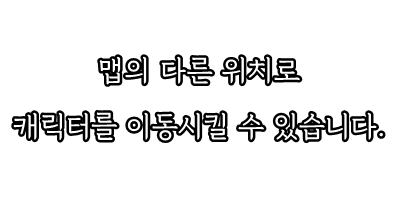
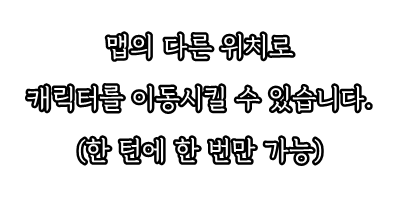
일단 짜잘하게 두개
1. 플레이어 이동 한턴에 한번만 가능케끔
2. 데미지 UI 리소스 업데이트

Changed region(s): [[0.03, 0.15, 0.99, 0.84]]

diff --git a/SampleProject2/Sample.h b/SampleProject2/Sample.h
@@ -62,5 +62,6 @@ public:
 	std::vector<DXTexture*> CardTextureList;
 	std::vector<DXTexture*> NumberTextureList_Red;
 	std::vector<DXTexture*> NumberTextureList_Black;
+	std::vector<DXTexture*> NumberTextureList_Damage;
 	std::map<std::wstring, DXTexture*> TextTextureList;
 };
